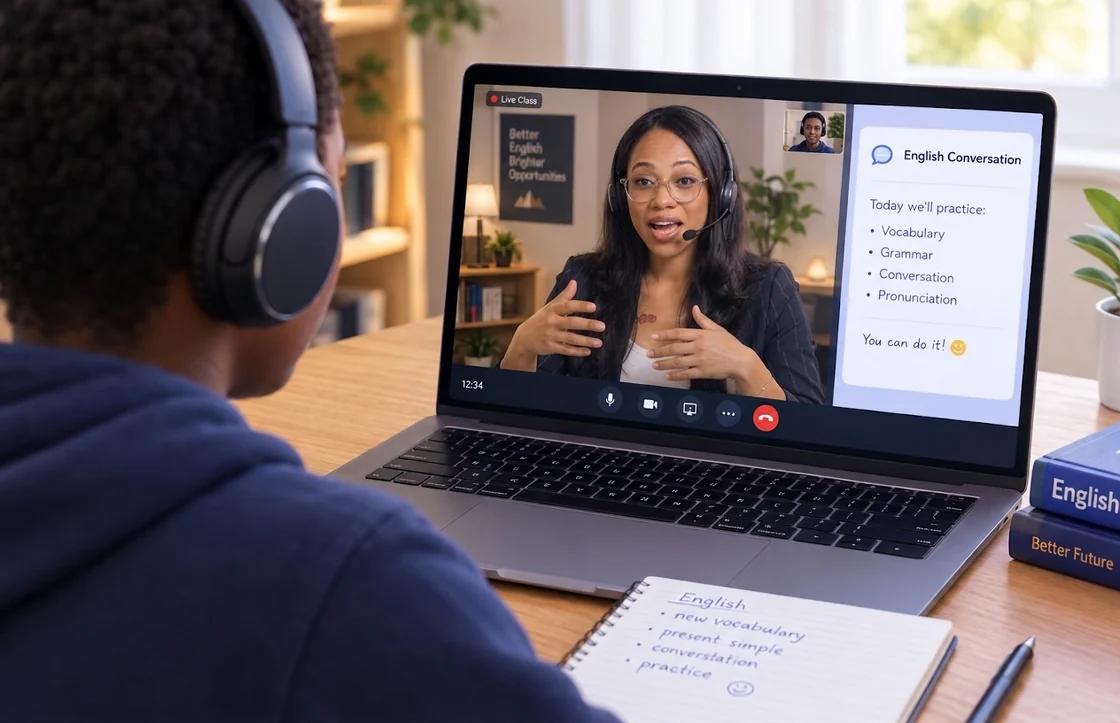
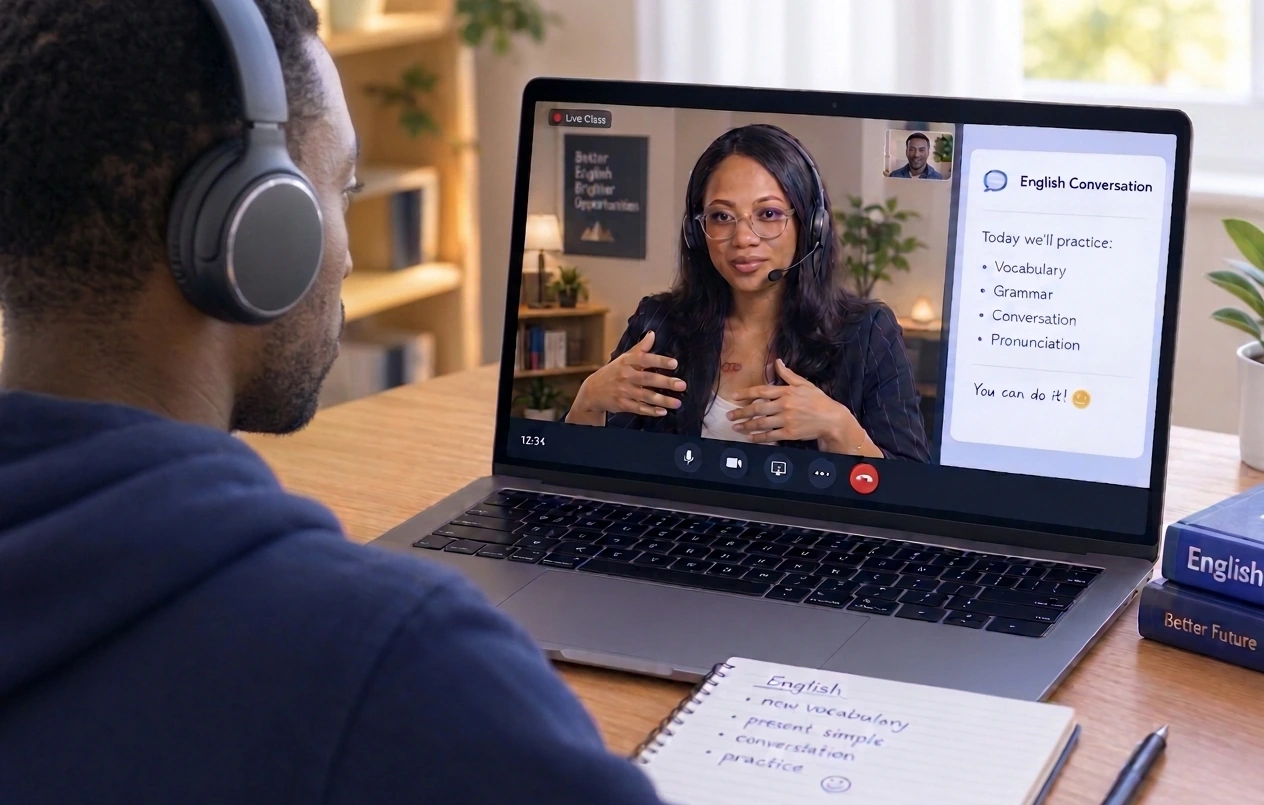
Hero d'accueil : nouvelle photo du client et entree « la connexion s'etablit »
Nouvelle photo fournie par le client, en pleine resolution (1264 px, WebP
qualite 93). Elle n'est plus reduite : affichee jusqu'a ~550 px CSS, elle en
demande ~1090 reels sur un ecran Retina, que la source couvre.

Entree de la photo en quatre temps, dans le propos du site — un appel video qui
s'ouvre :
1. le cadre arrive de loin, pivote en 3D, et se presente de face ;
2. l'image est d'abord un signal instable (flou, delave, surexpose) qui se
   stabilise ;
3. un trait de lumiere doree balaie la surface et le cadre lance un bref halo
   dore au moment ou elle devient nette ;
4. les deux repliques entrent ensuite, la question puis la reponse.

Chaque animation tient sa propre propriete (cadre : transform et ombre ; image :
filter ; pseudo-element : balayage), et toutes sont en `backwards` : une fois
l'entree jouee, ni filtre ni transformation ne restent figes sur l'image, qui
sinon resterait sur un calque composite rasterise une fois pour toutes, donc
legerement molle sur ecran haute densite. Verifie apres l'entree : `filter` et
`transform` a `none` sur l'image, en 1x, 2x et 3x.

Le `rv` du visuel est retire : son fondu global se superposait a l'entree, et
une animation CSS ne depend d'aucun observateur. `perspective` passe sur `.art`,
celle de `.visual` ne s'appliquant qu'a ses enfants directs.

Voile violet allege : il n'agit plus que dans les angles, le centre de l'image
(ecran du portable, professeure, panneau de la lecon) reste intact.
[…]

diff --git a/src/vitrine-hx.css b/src/vitrine-hx.css
@@ -850,6 +850,26 @@ body.vitrine-hx {
    Elle remplace l'illustration 3D dans `.art`, et hérite donc telle quelle de l'inclinaison sous
    la souris. La fenêtre de visioconférence qui était dessinée autour a été retirée : la photo en
    porte déjà une (voir PageAccueil.tsx). */
+/* ---- Entrée de la photo : « la connexion s'établit » (demande client du 2026-10-29) ----
+   Quatre mouvements qui se succèdent plutôt que de se superposer, pour que l'œil les lise l'un
+   après l'autre. Le propos de l'animation est celui du site : un appel vidéo qui s'ouvre.
+
+   1. le cadre arrive de loin, pivoté, et se présente de face (`hxarrivee`) ;
+   2. l'image est d'abord un signal instable — floue, délavée, surexposée — puis se stabilise
+      (`hxsignal`). C'est ce temps-là qui porte l'effet : on voit la vidéo « accrocher » ;
+   3. un trait de lumière doré balaie la surface au moment où elle devient nette (`hxbalayage`),
+      et le cadre lance un halo qui s'éteint aussitôt (`hxconnecte`) ;
+   4. les deux répliques entrent enfin, dans l'ordre d'une conversation.
+
+   Chaque animation est portée par un élément différent, pour qu'aucune ne dispute une propriété
+   à une autre : le cadre tient `transform`, l'image `filter`, le pseudo-élément le balayage.
+   Le flottement permanent attend la fin de l'arrivée pour démarrer.
+
+   `perspective` sur `.art` et non sur `.visual` : celle de `.visual` ne s'applique qu'à ses
+   enfants directs, et la photo est un cran plus bas. Sans elle, le pivot serait plat. */
+.hx .visual .art {
+  perspective: 1100px;
+}
 .hx .visual .photo-cours {
   position: relative;
   border-radius: 26px;
@@ -857,12 +877,106 @@ body.vitrine-hx {
   /* Liseré clair : il décolle la photo du violet du fond, qui mange sinon ses bords sombres. */
   border: 1px solid rgba(217, 202, 247, 0.35);
   box-shadow: 0 40px 70px rgba(10, 4, 20, 0.55);
-  animation: hxfloat 7s ease-in-out infinite;
+  /* `backwards` partout : une fois l'entrée jouée, ni `transform`, ni `filter`, ni ombre ne
+     restent figés par l'animation. Un `filter` ou une transformation 3D maintenus au repos
+     gardent l'image sur un calque composité, rastérisé une fois pour toutes — c'est ce qui la
+     rendait légèrement molle sur un écran haute densité. */
+  animation:
+    hxarrivee 1.05s cubic-bezier(0.16, 1, 0.3, 1) backwards,
+    hxconnecte 0.9s ease-out 0.72s backwards,
+    hxfloat 7s ease-in-out 1.05s infinite;
 }
 .hx .visual .photo-cours img {
   width: 100%;
   display: block;
+  animation: hxsignal 1.5s cubic-bezier(0.33, 1, 0.68, 1) backwards;
 }
+/* Trait de lumière, large et très incliné, qui traverse une seule fois. `::after` plutôt qu'un
+   élément de plus : il est purement décoratif et ne doit rien ajouter au DOM. */
+.hx .visual .photo-cours::after {
+  content: '';
+  position: absolute;
+  top: -60%;
+  bottom: -60%;
+  width: 42%;
+  z-index: 2;
+  pointer-events: none;
+  background: linear-gradient(
+    100deg,
+    rgba(254, 255, 250, 0) 0%,
+    rgba(254, 255, 250, 0.16) 38%,
+    rgba(242, 184, 75, 0.5) 50%,
+    rgba(254, 255, 250, 0.16) 62%,
+    rgba(254, 255, 250, 0) 100%
+  );
+  transform: rotate(14deg);
+  /* Invisible au repos : c'est l'animation seule qui le fait passer. */
+  left: -60%;
+  opacity: 0;
+  animation: hxbalayage 0.95s ease-in-out 0.62s both;
+}
+/* La règle globale de mouvement réduit vise `.hx *`, qui n'atteint pas les pseudo-éléments : le
+   balayage passerait encore. */
+@media (prefers-reduced-motion: reduce) {
+  .hx .visual .photo-cours::after {
+    display: none;
+  }
+}
+@keyframes hxarrivee {
+  from {
+    opacity: 0;
+    transform: translateZ(-240px) rotateY(-24deg) rotateX(9deg) scale(0.88);
+  }
+  to {
+    opacity: 1;
+    transform: translateZ(0) rotateY(0deg) rotateX(0deg) scale(1);
+  }
+}
+@keyframes hxsignal {
+  from {
+    filter: blur(24px) saturate(0.3) brightness(1.4) contrast(0.8);
+    transform: scale(1.14);
+  }
+  45% {
+    filter: blur(7px) saturate(0.75) brightness(1.12) contrast(0.95);
+  }
+  to {
+    filter: none;
+    transform: scale(1);
+  }
+}
+/* Le halo de « connexion établie » : il monte, puis retombe sur l'ombre portée normale. */
+@keyframes hxconnecte {
+  0% {
+    box-shadow: 0 40px 70px rgba(10, 4, 20, 0.55);
+  }
+  40% {
+    box-shadow:
+      0 40px 70px rgba(10, 4, 20, 0.55),
+      0 0 0 3px rgba(242, 184, 75, 0.55),
+      0 0 60px 14px rgba(242, 184, 75, 0.32);
+  }
+  100% {
+    box-shadow: 0 40px 70px rgba(10, 4, 20, 0.55);
+  }
+}
+@keyframes hxbalayage {
+  from {
+    left: -60%;
+    opacity: 0;
+  }
+  18% {
+    opacity: 1;
+  }
+  82% {
+    opacity: 1;
+  }
+  to {
+    left: 118%;
+    opacity: 0;
+  }
+}
+
 /* Raccord chromatique : un voile violet très doux, plus dense dans les angles, qui rapproche les
    bois chauds et le bleu marine de la photo de la palette de la page. Assez léger pour que
    l'écran du portable et le visage de la professeure restent parfaitement lisibles — vérifié en
@@ -871,13 +985,18 @@ body.vitrine-hx {
   position: absolute;
   inset: 0;
   pointer-events: none;
-  background:
-    radial-gradient(130% 110% at 50% 42%, rgba(78, 53, 111, 0) 44%, rgba(58, 37, 88, 0.3) 100%),
-    linear-gradient(160deg, rgba(123, 91, 176, 0.1), rgba(46, 29, 69, 0.12));
+  /* Allégé le 2026-10-29 (« tous les éléments bien visibles et nets ») : il n'agit plus que
+     dans les angles, et laisse intact le centre de l'image — l'écran du portable, le visage de
+     la professeure et le panneau de la leçon. */
+  background: radial-gradient(140% 120% at 55% 45%, rgba(78, 53, 111, 0) 55%, rgba(58, 37, 88, 0.26) 100%);
 }
 
 /* Les deux répliques. Posées sur `.art`, elles suivent son inclinaison : elles appartiennent à
-   la même scène que la fenêtre, pas au fond. */
+   la même scène que la photo, pas au fond.
+
+   Elles entrent APRÈS la photo, et l'une après l'autre : c'est l'ordre d'une conversation, la
+   question puis la réponse. Les faire apparaître en même temps que l'image donnait trois
+   mouvements simultanés et un hero confus. */
 .hx .visual .bulle {
   position: absolute;
   z-index: 3;
@@ -886,6 +1005,31 @@ body.vitrine-hx {
   border-radius: 18px;
   font: 600 13px/1.4 var(--f-body);
   box-shadow: 0 16px 32px rgba(10, 4, 20, 0.35);
+  animation: hxbulle 0.62s cubic-bezier(0.22, 1, 0.36, 1) both;
+}
+.hx .visual .bulle.haut {
+  animation-delay: 1.32s;
+}
+.hx .visual .bulle.bas {
+  animation-delay: 1.56s;
+}
+@keyframes hxbulle {
+  from {
+    opacity: 0;
+    transform: translateY(10px) scale(0.92);
+  }
+}
+/* Le halo seul reçoit un fondu : il n'a pas d'animation propre, contrairement à l'anneau et aux
+   orbites, qui tournent déjà et qu'il faudrait réécrire en entier pour leur ajouter une seconde
+   animation — pour un gain nul, puisqu'ils forment le décor dans lequel la photo se dévoile et
+   ont justement intérêt à être là avant elle. */
+.hx .visual .halo {
+  animation: hxfondu 1.4s ease-out both;
+}
+@keyframes hxfondu {
+  from {
+    opacity: 0;
+  }
 }
 /* Calées sur les bords de la fenêtre et non sur un pourcentage de sa hauteur : un décalage en
    pourcentage dépend de la hauteur du cadre, et la bulle haute venait recouvrir la ligne

diff --git a/src/components/vitrine/PageAccueil.tsx b/src/components/vitrine/PageAccueil.tsx
@@ -91,7 +91,11 @@ export function PageAccueil({ nomEtablissement }: { nomEtablissement: string }) 
               </div>
             </div>
 
-            <div className="visual rv" style={{ transitionDelay: '.3s' }}>
+            {/* Plus de `rv` ici : la photo a sa propre entrée (voir `.photo-cours` dans
+                vitrine-hx.css), et le fondu global de `rv` se serait superposé au dévoilement en
+                le rendant mou. Une animation CSS ne dépend d'aucun observateur, ce qui la met
+                aussi à l'abri du défaut rencontré sur la carte de rentrée. */}
+            <div className="visual">
               <div className="halo" />
               <div className="ring" />
               <div className="orbit" />
